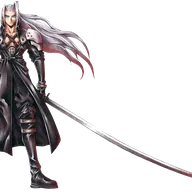
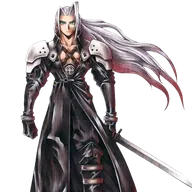
feat: Sephiroth pic update

diff --git a/apps/web/src/art/manifest.ts b/apps/web/src/art/manifest.ts
@@ -133,7 +133,7 @@ export const ARTWORK: readonly ArtEntry[] = [
     subjects: ["character_sephiroth"],
     era: "modern",
   }),
-  art("characters/sephiroth-og", "1400x1000", "cutout", {
+  art("characters/sephiroth-og", "433x600", "cutout", {
     subjects: ["character_sephiroth"],
     era: "og",
   }),

diff --git a/apps/web/scripts/fetch_art.py b/apps/web/scripts/fetch_art.py
@@ -62,7 +62,7 @@ ART: dict[str, tuple[str, int]] = {
     "characters/cait-sith": ("Cait Sith moogle from FFVII Revelation promo render.png", 1400),
     "characters/cait-sith-og": ("CaitSith-FFVIIArt.png", 1400),
     "characters/sephiroth": ("Sephiroth from FFVII Rebirth promo render.png", 1400),
-    "characters/sephiroth-og": ("Sephiroth-FFVIIArt.png", 1400),
+    "characters/sephiroth-og": ("Sephiroth-FFVIIArt.png", 600),
     "characters/zack": ("Zack Fair from FFVII Revelation promo render.png", 1400),
     "characters/zack-og": ("Zack FFVII Concept Art.jpg", 1400),
     "characters/president-shinra": ("President Shinra render from FFVII Remake.png", 1400),
@@ -199,6 +199,7 @@ CROP = {
     "places/shinra-mansion": (0.03, 0.625, 0.475, 0.975),
     "places/nibelheim-rebirth": (0, 0.22, 1, 1),  # the area-name banner
     "places/corel-prison": (0, 0, 1, 0.72),  # the subtitle
+    "characters/sephiroth-og": (0, 0, 0.516, 1),  # most of the long sword
     "places/under-junon": (0, 0, 1, 0.66),  # the mini-game's instructions
 }
 # knockout: the flat studio background around a render becomes transparent, so every character
